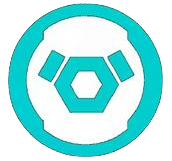
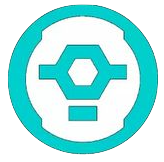
mostly documentation. Adding Librarian Class

diff --git a/Arbiter.js b/Arbiter.js
@@ -5,16 +5,16 @@ const
     Page    = require( './Page' ),
     PubSub  = require( './PubSub' );
 
+// TODO save this to session storage
+// TODO create save and load function
+// TODO create on off variable for console.log debugging mode
+// TODO - √ - create pubsub
+// TODO - √ - allow page pre, on, and post functions to be accessed and editable
+
 class Arbiter extends Monitor
 {
     constructor( pages )
     {
-        // TODO save this to session storage
-        // TODO create save and load function
-        // TODO create on off variable for console.log debugging mode
-        // TODO - √ - create pubsub
-        // TODO - √ - allow page pre, on, and post functions to be accessed and editable
-
         super();
 
         this.version = 'v0.0.4';
@@ -72,11 +72,6 @@ class Arbiter extends Monitor
         this.load( Arbiter.activePage, true, this.onApplicationIsReady );
     }
 
-    changePage( hash )
-    {
-        location.hash = this.keyToHash( hash );
-    }
-
     render( page )
     {
         console.log( page );
@@ -102,11 +97,10 @@ class Arbiter extends Monitor
         return new Promise( ( res, rej ) => {
             let http = new XMLHttpRequest();
             http.onreadystatechange = () => {
-                if( http.readyState === 4 && http.status <= 308 ) {
+                if( http.readyState === 4 && http.status <= 308 )
                     res( http );
-                } else if( http.readyState === 4 && http.status >= 400 ) {
+                else if( http.readyState === 4 && http.status >= 400 )
                     rej( http );
-                }
             };
             http.open( 'GET', url, true );
             http.send( null );
@@ -143,6 +137,11 @@ class Arbiter extends Monitor
         }
 
         return false;
+    }
+
+    changePage( hash )
+    {
+        location.hash = this.keyToHash( hash );
     }
 
     /**
@@ -295,13 +294,12 @@ class Arbiter extends Monitor
 
     subscribeToPage( page, fn )
     {
-        console.log( this.getPage( page ) );
-        this.getPage( page ).PubSub.addSubscription( fn );
+        this.getPage( page ).addSubscription( fn );
     }
 
     publishForPage( page, event )
     {
-        this.getPage( page ).PubSub.publish( event );
+        this.getPage( page ).publish( event );
     }
 }
 

diff --git a/Library.js b/Library.js
@@ -1,7 +1,10 @@
 'use strict';
 
-class ArbiterDB
+class Library
 {
+    // TODO add local, session, and indexDB storage to this class
+    // TODO save files and other things to this Library
+    // TODO add Lesser AI functionality to retrieval, storage, & loading of assets
     constructor( dbv )
     {
         this.DB             = null;
@@ -10,7 +13,7 @@ class ArbiterDB
         this.IDBTransaction = window.IDBTransaction || window.webkitIDBTransaction || window.msIDBTransaction || { READ_WRITE: 'readwrite' };
         this.IDBKeyRange    = window.IDBKeyRange || window.webkitIDBKeyRange || window.msIDBKeyRange;
 
-        this.DBRequest = this.indexedDB.open( 'ArbiterDB', this.DBVersion );
+        this.DBRequest = this.indexedDB.open( 'Library', this.DBVersion );
 
         this.DBRequest.onerror = e => {
             console.warn( 'User does not allow IndexedDB', e.target.errorCode );

diff --git a/Page.js b/Page.js
@@ -4,10 +4,12 @@ const
     Executor = require( './Executor' ),
     PubSub   = require( './PubSub' );
 
-class Page
+class Page extends PubSub
 {
     constructor( name, page, pagePath = 'main' )
     {
+        super( name );
+
         this.title      = page.title || page.name || name || '';
         this.name       = page.name || page.title;
         this.path       = `${pagePath}/${name}.html`;
@@ -15,7 +17,6 @@ class Page
         this.preload    = page.preload;
         this.link       = page.link || null;
         this.isLoaded   = !!this.html;
-        this.PubSub     = new PubSub( name );
 
         this.setPreRender( page.preRender );
         this.setOnRender( page.onRender );

diff --git a/PubSub.js b/PubSub.js
@@ -8,9 +8,17 @@ class PubSub
         this.subscribers = subscribers;
     }
 
+    isFunction( fn )
+    {
+        return typeof fn === 'function';
+    }
+
     addSubscription( fn )
     {
-        this.subscribers.push( fn );
+        if( this.isFunction( fn ) )
+            this.subscribers.push( fn );
+        else
+            throw 'Argument Error - [fn] must be a function.';
     }
 
     listSubscribers()

diff --git a/README.md b/README.md
@@ -106,46 +106,167 @@ _a.init();
 Manages page routing, monitoring, and lifecycle.
 
 - `constructor`
-    - Arguments: nothing
+    - Arguments: `none`
     - Sets up routes, pages, and `currentPage`
 
 - `init`
-    - Arguments: nothing
+    - Arguments:
+        - `(function) fn: function to run on initialization`
+        - `(function) globalExecution: add globally executed function`
     - Gets the `body` container - modify this to call another `div` if you have a permanent navigation bar or something like that
     - Constructs the pages
     - Loads the `mainFile` and calls `onApplicationIsReady`
 
 - `render`
-    - Arguments: `Page object`
+    - Arguments:
+        - `(Page) page`
     - Calls `preRender`, `onRender`, and `postRender` in their respective order
     - Sets `currentPage`
-    - Sets `document.title` and `location.hash`
+    - Sets `document.title` and `location.hash` based on `page` object
     - Sends page data to the render container
 
 - `request`
-    - Arguments: `(string) url`
+    - Arguments:
+        - `(string) url`
     - Loads the html page - can be used to load any http page
 
 - `load`
-    - Arguments: `(string) name of the page, (bool) render it?, (function) callback`
+    - Arguments:
+        - `(string) name`: name of the page
+        - `(bool) render`: set render page flag
+        - `(function) handler`: optional call back
     - Renders a page if it is loaded into memory, otherwise, `request`'s it, stores it, and then calls `render`
     - Responses with the `XMLHttpRequest` on `readyState 4`
 
+- `changePage`
+    - Arguments:
+        - `(string) hash`
+    - **Primary navigation function**
+    - Changes page location to the desired page - notifies `Arbiter.onLocationHashChanged`
+
 - `hashToKey`
-    - Arguments: `(string) hash`
+    - Arguments:
+        - `(string) hash`
     - Removes `#` in `location.hash` URI component and returns result
 
+- `hashToKey`
+    - Arguments:
+        - `(string) hash`
+    - Adds `#` for `location.hash` URI component and returns result
+
 - `isPageRouted`
-    - Arguments: `(string) hash`
+    - Arguments:
+        - `(string) hash`
     - Returns if(?) the page is routed and managed by The Arbiter
 
 - `isPageLoaded`
-    - Arguments: `(string) hash`
+    - Arguments:
+        - `(string) hash`
     - Returns if(?) the page has been loaded into memory
 
 - `isPageRendered`
-    - Arguments: `(string) hash`
+    - Arguments:
+        - `(string) hash`
     - Returns if(?) the page is currently rendered
+
+- `isPage`
+    - Arguments:
+        - `(Page) page`
+    - Returns if(?) `page` is an instance of `Page`
+
+- `pageToHash`
+    - Arguments:
+        - `(Page | string) page`
+    - Returns `hash` of a page or string
+
+- `getPage`
+    - Arguments:
+        - `(Page | string) page`
+    - Returns a `Page` from a `hash`, `key`, or `Page`
+
+- `setPreRenderForPage`
+    - Arguments:
+        - `(Page | string) page`
+        - `(function) fn`
+    - Sets the `PreRender` function for a specific page
+
+- `setOnRenderForPage`
+    - Arguments:
+        - `(Page | string) page`
+        - `(function) fn`
+    - Sets the `OnRender` function for a specific page
+
+- `setPostRenderForPage`
+    - Arguments:
+        - `(Page | string) page`
+        - `(function) fn`
+    - Sets the `PostRender` function for a specific page
+
+- `setMainFile`
+    - Arguments:
+        - `(string) page`
+    - Sets the `mainFile` on in-memory configuation
+    - Example use: After a user logs in, set the main page from `login` to `dashboard`
+
+- `addGlobalExecution`
+    - Arguments:
+        - `(function) fn`
+    - Subscribes a function to the `globalExecution` pubsub (see below)
+
+- `invokeGlobalExecution`
+    - Arguments:
+        - `(ANY) event`
+    - Publishes anything to all subscribers of `globalExecution`
+
+- `subscribeToPage`
+    - Arguments:
+        - `(Page | string) page`
+        - `(function) fn`
+    - Subscribes a function to a specified `Page`
+
+- `publishForPage`
+    - Arguments:
+        - `(Page | string) page`
+        - `(AND) event`
+    - Publishes anything to all subscribers of a specified `Page`
+    
+##### Static Methods
+
+- `onApplicationDidAppear`
+    - Called immediately when URL for website is requested
+
+- `onApplicationDidLoad`
+    - Called when DOM/`document` is ready
+
+- `onApplicationIsReady`
+    - Called when The Arbiter is prepared
+
+- `onPageDidChange`
+    - Called on page history change
+        - `refresh`, `forward`, `backward`
+
+- `onLocationHashChanged`
+    - Called when `location.hash` is changed
+
+- `onApplicationDidUnload`
+    - Called when the tab is set to close or the URL changes
+
+- `onApplicationDidDisappear`
+    - Called just before the application closes
+    - Volatile code execution will occur, not _really_ to be used
+
+- `onApplicationDidReceiveMemoryWarning`
+    - Called if The Monitor detects a memory issue
+    - Clears out large in-memory objects
+
+##### Important methods/variables
+
+- `globalExecution`
+    - Global Execution is a Post-Render function or multiple functions that are run globally and have no ties to a specific page.
+
+- `saveOnUnload`
+    - Attempts to save the state of the application before fully unloading
+    - Returns `onApplicationDidDisappear` - if changed to return a `(string)` a warning box will appear and block all code execution
 
 ------
 
@@ -156,7 +277,7 @@ Manages page routing, monitoring, and lifecycle.
 Monitors memory, page duration, and activity.
 
 - `constructor`
-    - Arguments: nothing
+    - Arguments: `none`
     - Sets up monitoring
 
 - `analyze`
@@ -165,15 +286,15 @@ Monitors memory, page duration, and activity.
     - Checks and reports on memory usage
 
 - `onMemoryWarning`
-    - Arguments: nothing
+    - Arguments: `none`
     - Manual override memory warning to stop the monitor from running
 
 - `inquiry`
-    - Arguments: nothing
+    - Arguments: `none`
     - Returns the current list of page analytics
 
 - `start`
-    - Arguments: nothing
+    - Arguments: `none`
     - Starts a "timer" for the currently rendered page
 
 - `stop`
@@ -250,8 +371,46 @@ Executes a string of code in a `container`.
 - `error`
     - Called if things aren't OK
 
+------
+
+### The Library
+
+![library][4]
+
+// TODO: Document this
+
+------
+
+### PubSub
+
+**`PubSub`** is a Publish-Subscribe class to register functions to a specific event.
+
+- `constructor`
+    - Arguments:
+        - `(string) name` of "topic"
+        - `(array) subscribers` List of subscribers
+
+- `isFunction`
+    - Arguments:
+        - `(ANY) fn`
+    - Returns if(?) `fn` is a `function`
+
+- `addSubscription`
+    - Arguments:
+        - `(function) fn`
+    - Adds function to list of `subscribers`
+
+- `listSubscribers`
+    - Arguments: `none`
+    - Returns the list of `subscribers`
+
+- `publish`
+    - Arguments:
+        - `(ANY) event`
+    - Invokes all subscribed functions and passes `event` 
 
 [0]: https://raw.githubusercontent.com/iSkore/the-arbiter/master/docs/arbiter.png "The Arbiter"
 [1]: https://raw.githubusercontent.com/iSkore/the-arbiter/master/docs/monitor.png "The Monitor"
 [2]: https://raw.githubusercontent.com/iSkore/the-arbiter/master/docs/generator.png "The Generator"
 [3]: https://raw.githubusercontent.com/iSkore/the-arbiter/master/docs/executor.png "The Executor"
+[4]: https://raw.githubusercontent.com/iSkore/the-arbiter/master/docs/librarian.png "The Librarian"
